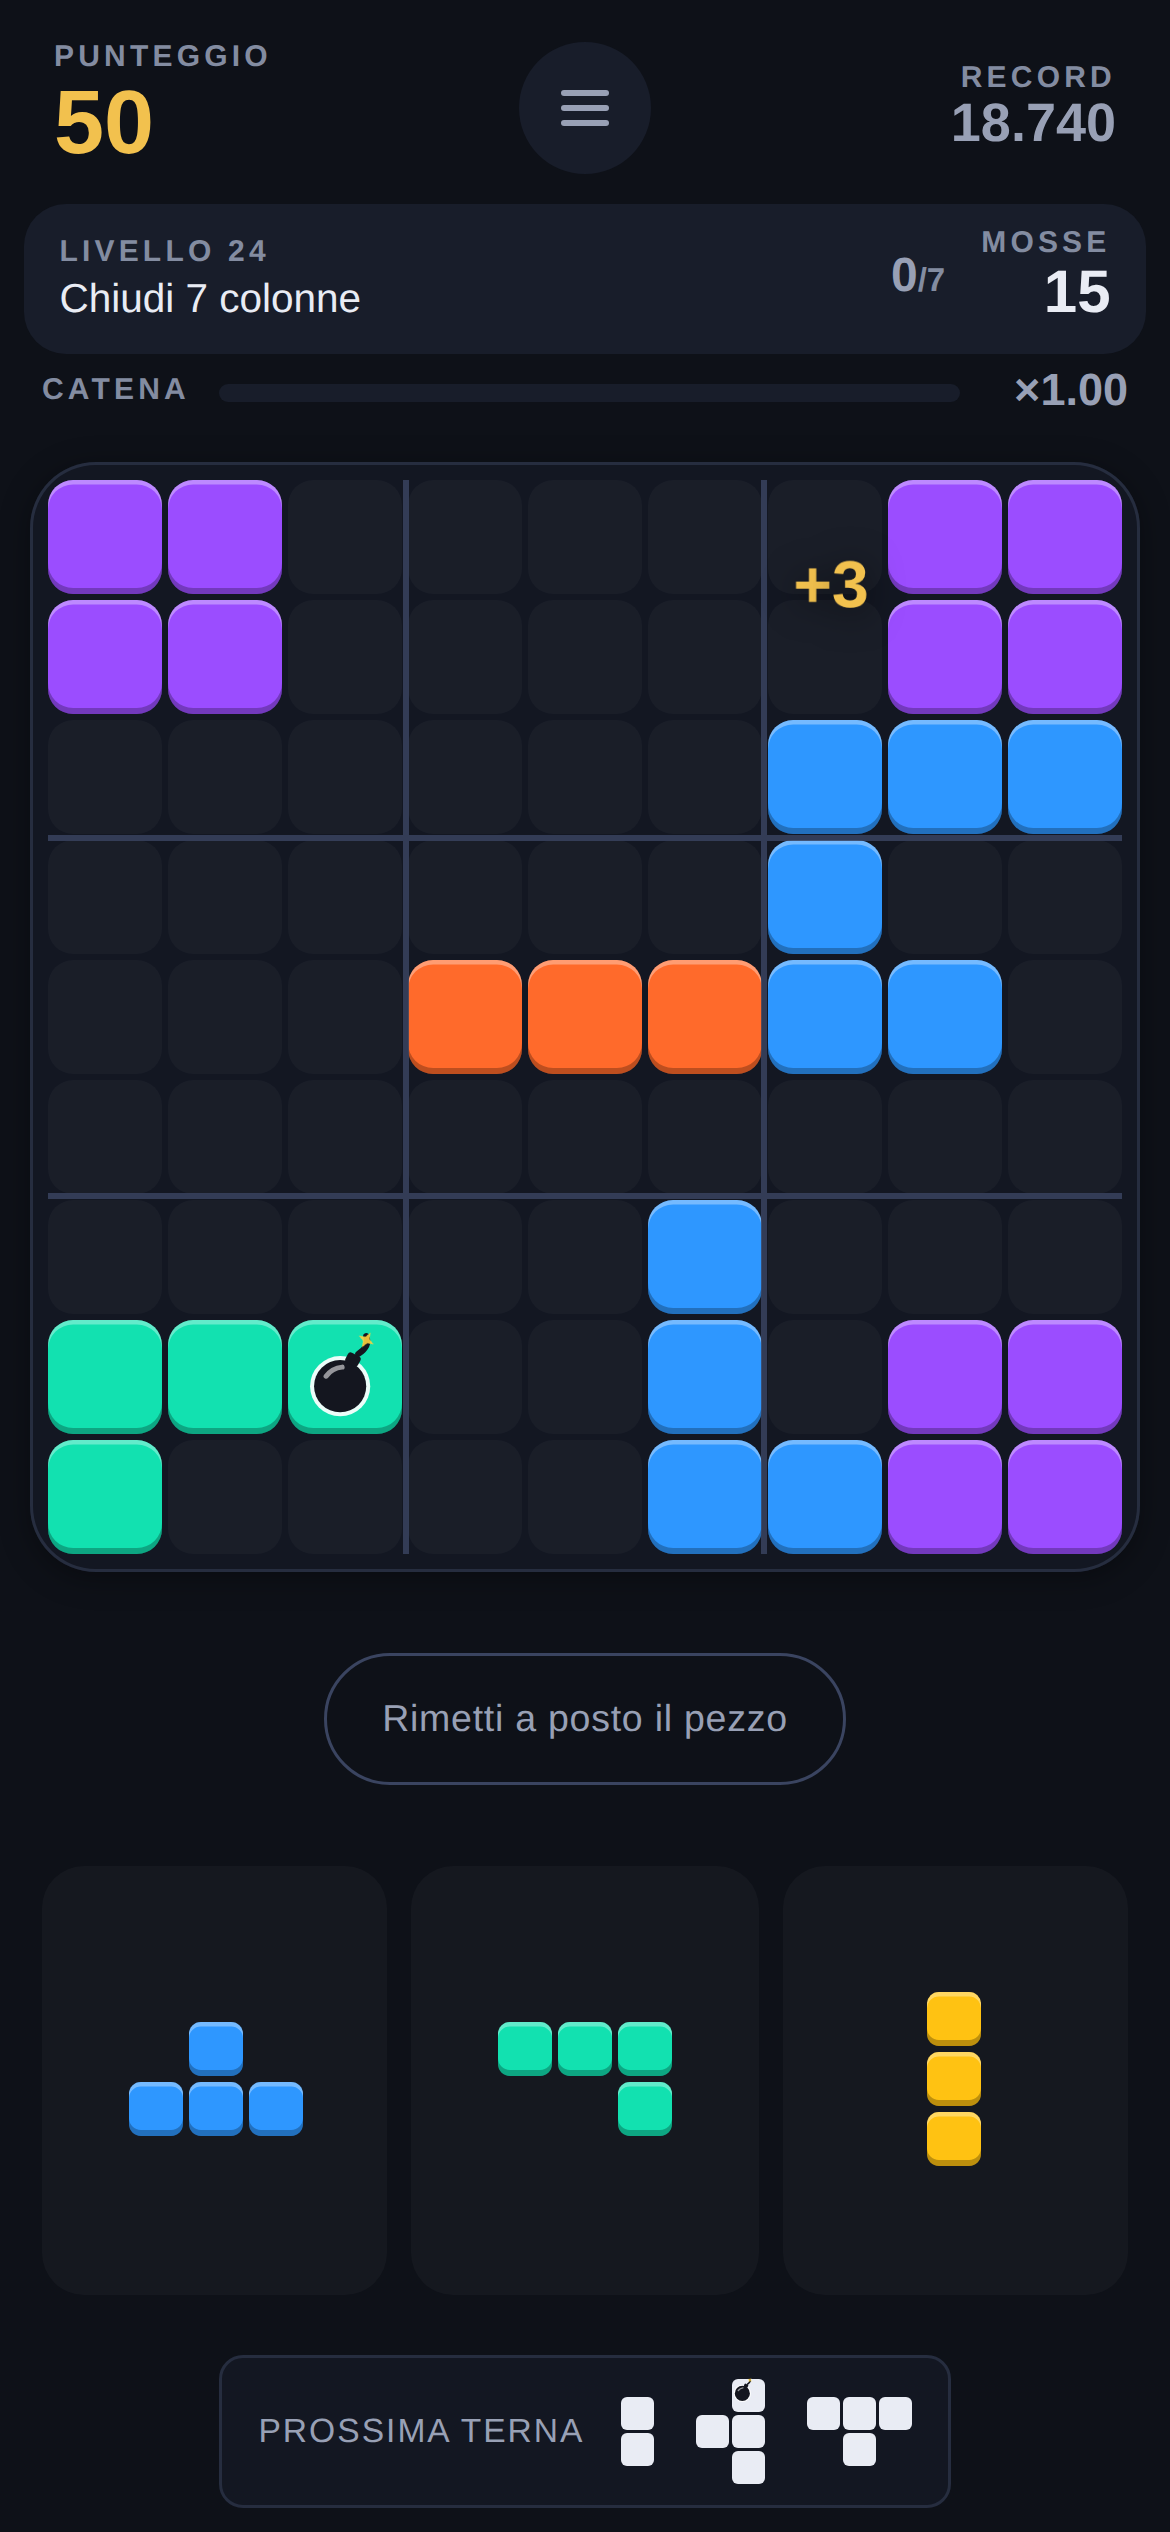
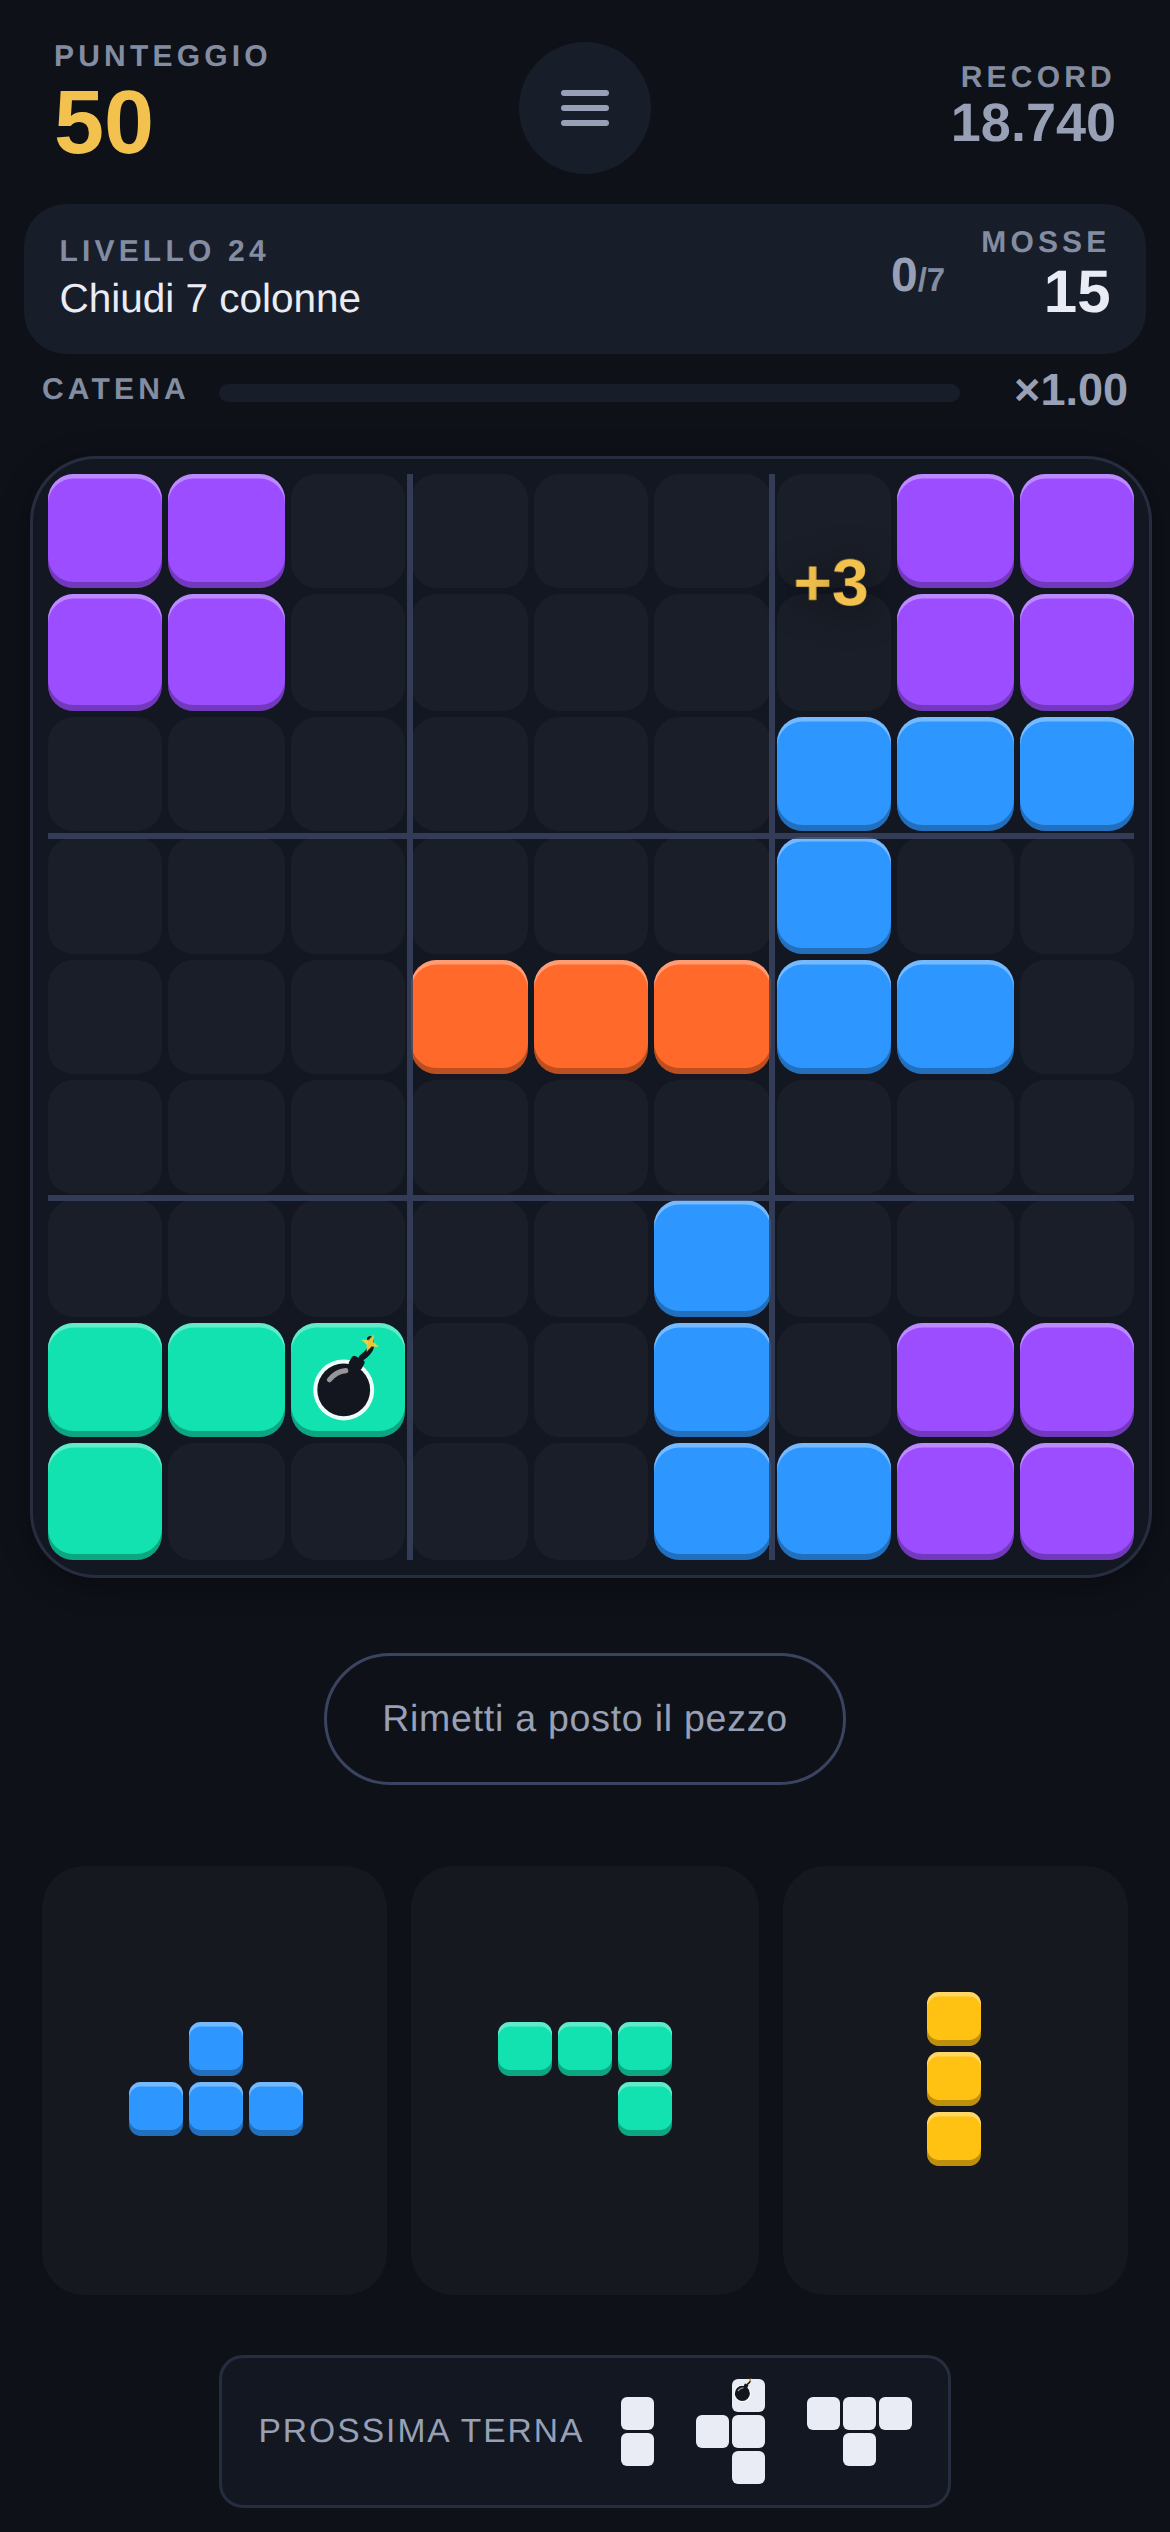
1.8.1: la plancia copriva il pulsante "Rimetti a posto il pezzo"
Segnalato appena pubblicata la 1.8.0, con una schermata in cui del pulsante si
vedeva solo una fetta sotto il bordo del tabellone. Difetto mio e grave: la
funzione appena aggiunta era inutilizzabile su mezzo parco telefoni.

LA CAUSA E' UNA DIREZIONE SBAGLIATA, NON UNA MISURA SBAGLIATA. La plancia era
scritta come `width: 100%` piu' `aspect-ratio: 1`: l'altezza era una conseguenza
della larghezza, e in quel verso un `max-height` non la fa rimpicciolire. Cosi'
la plancia sforava il proprio riquadro senza che il blocco contenitore risultasse
sbordare -- misurato sul formato che l'ha trovato: riquadro 312px, plancia 380px.

Adesso si parte dall'altezza: quella e' definita, la larghezza la segue, e
`max-width` la riporta indietro sui riquadri stretti. I due vecchi tetti (96vw e
58vh) restano dentro il `min`, perche' servivano a non far diventare enorme la
plancia sugli schermi alti e quel compito ce l'hanno ancora.

CONSEGUENZA DA DIRE, NON DA NASCONDERE: la plancia e' piu' piccola, da 380 a 310
pixel su un telefono comune. Non e' una perdita, e' la misura vera: 380 era la
misura che non ci stava, ed era anche la causa della segnalazione precedente --
la scritta che finiva addosso ai pezzi. Lo stesso difetto, visto due volte da due
parti diverse.

LO SCENARIO DI IMPAGINAZIONE PROVAVA LO STATO SBAGLIATO, IN DUE MODI.

Provava il livello appena aperto, cioe' l'unico istante in cui il pulsante non
c'e' ancora: guardava proprio il fotogramma in cui il difetto non esiste. Adesso
[…]

diff --git a/src/styles/app.css b/src/styles/app.css
@@ -218,14 +218,24 @@ button {
 }
 .pl-tavolo .pl-catena { width: 100%; max-width: min(96vw, 58vh); padding: 0 4px 2px; }
 
+/* LA PLANCIA SI MISURA IN ALTEZZA, non in larghezza, e la differenza non e' teorica.
+   
+   Con `width: 100%` piu' `aspect-ratio`, l'altezza e' una conseguenza della larghezza:
+   il vincolo viaggia in un verso solo, e un `max-height` non la fa rimpicciolire. E'
+   costato un difetto grave pubblicato: la plancia sforava il proprio riquadro di 68
+   pixel e finiva SOPRA il pulsante "Rimetti a posto il pezzo", che spariva a meta'.
+   Misurato: involucro 312px, plancia 380px.
+   
+   Partendo dall'altezza il vincolo viaggia nel verso giusto -- l'altezza e' definita,
+   la larghezza la segue, e `max-width` la riporta indietro se il riquadro e' stretto.
+   I due vecchi tetti (96vw e 58vh) restano dentro il `min`: servivano a non far
+   diventare enorme la plancia sugli schermi molto alti, e quel compito ce l'hanno
+   ancora. */
 .pl-plancia {
   position: relative;
-  width: 100%;
-  max-width: min(96vw, 58vh);
-  /* Il tetto vero: lo spazio che l'involucro ha in questo momento. Con `aspect-ratio`
-     una riduzione in altezza si trasferisce alla larghezza, quindi la plancia resta
-     quadrata mentre rimpicciolisce. */
-  max-height: 100%;
+  height: min(100%, 96vw, 58vh);
+  width: auto;
+  max-width: 100%;
   aspect-ratio: 1;
   padding: 6px;
   border-radius: var(--pl-radius-lg);

diff --git a/docs/CHANGELOG.md b/docs/CHANGELOG.md
@@ -7,6 +7,50 @@ Tutte le modifiche degne di nota a PLINTO. Il formato segue una versione semplif
 La versione è dichiarata in un solo posto — il campo `version` di `package.json` — e
 `vite.config.js` la inietta nel bundle come `__APP_VERSION__`.
 
+## [1.8.1] — 11 settembre 2026
+
+### Corretto
+
+**La plancia copriva il pulsante «Rimetti a posto il pezzo».** Segnalato appena
+pubblicata la 1.8.0, con una schermata in cui del pulsante si vedeva solo una fetta sotto
+il bordo del tabellone. Difetto mio, e grave: la funzione appena aggiunta era inutilizzabile
+su mezzo parco telefoni.
+
+**La causa e' una direzione sbagliata, non una misura sbagliata.** La plancia era scritta
+come `width: 100%` piu' `aspect-ratio: 1`: l'altezza era una conseguenza della larghezza,
+e in quel verso un `max-height` non la fa rimpicciolire. Il risultato e' che la plancia
+sforava il proprio riquadro senza che il blocco che la contiene risultasse sbordare —
+misurato sul formato che l'ha trovato: riquadro 312px, plancia 380px, 68 di troppo che
+finivano sopra il pulsante.
+
+Adesso si parte dall'altezza: quella e' definita, la larghezza la segue, e `max-width` la
+riporta indietro sui riquadri stretti. I due vecchi tetti restano dentro il `min` perche'
+servivano a non far diventare enorme la plancia sugli schermi alti, e quel compito ce
+l'hanno ancora.
+
+**Conseguenza da dire, non da nascondere: la plancia e' piu' piccola.** Su un telefono
+comune passa da 380 a 310 pixel. Non e' una perdita, e' la misura vera: 380 era la misura
+che non ci stava, ed era anche la causa della segnalazione precedente — la scritta che
+finiva addosso ai pezzi. Lo stesso difetto, visto due volte da due parti diverse.
+
+### Cambiato
+
+**Lo scenario di impaginazione provava lo stato sbagliato, in due modi.**
+
+Provava il livello **appena aperto**, cioe' l'unico istante in cui il pulsante non c'e'
+ancora: guardava proprio il fotogramma in cui il difetto non esiste. Adesso fa una mossa
+prima di misurare, e verifica anche che il pulsante ci sia — altrimenti lo scenario non
+prova quello che dice di provare.
+
+E provava le altezze **nominali** dei telefoni. Su uno schermo vero la barra di stato e
+quella di navigazione si prendono un centinaio di pixel, e il gioco ne riceve molti meno:
+412x915 passava, 412x805 no. Adesso ogni formato viene provato due volte, con e senza le
+barre. Provare la misura della scatola invece di quella dello schermo vuol dire non
+provare niente.
+
+Verificato che serva: con il foglio di stile della 1.8.0 il controllo nuovo fallisce su
+**otto** formati, con quello corretto passa su tutti e dodici.
+
 ## [1.8.0] — 10 settembre 2026
 
 ### Aggiunto
